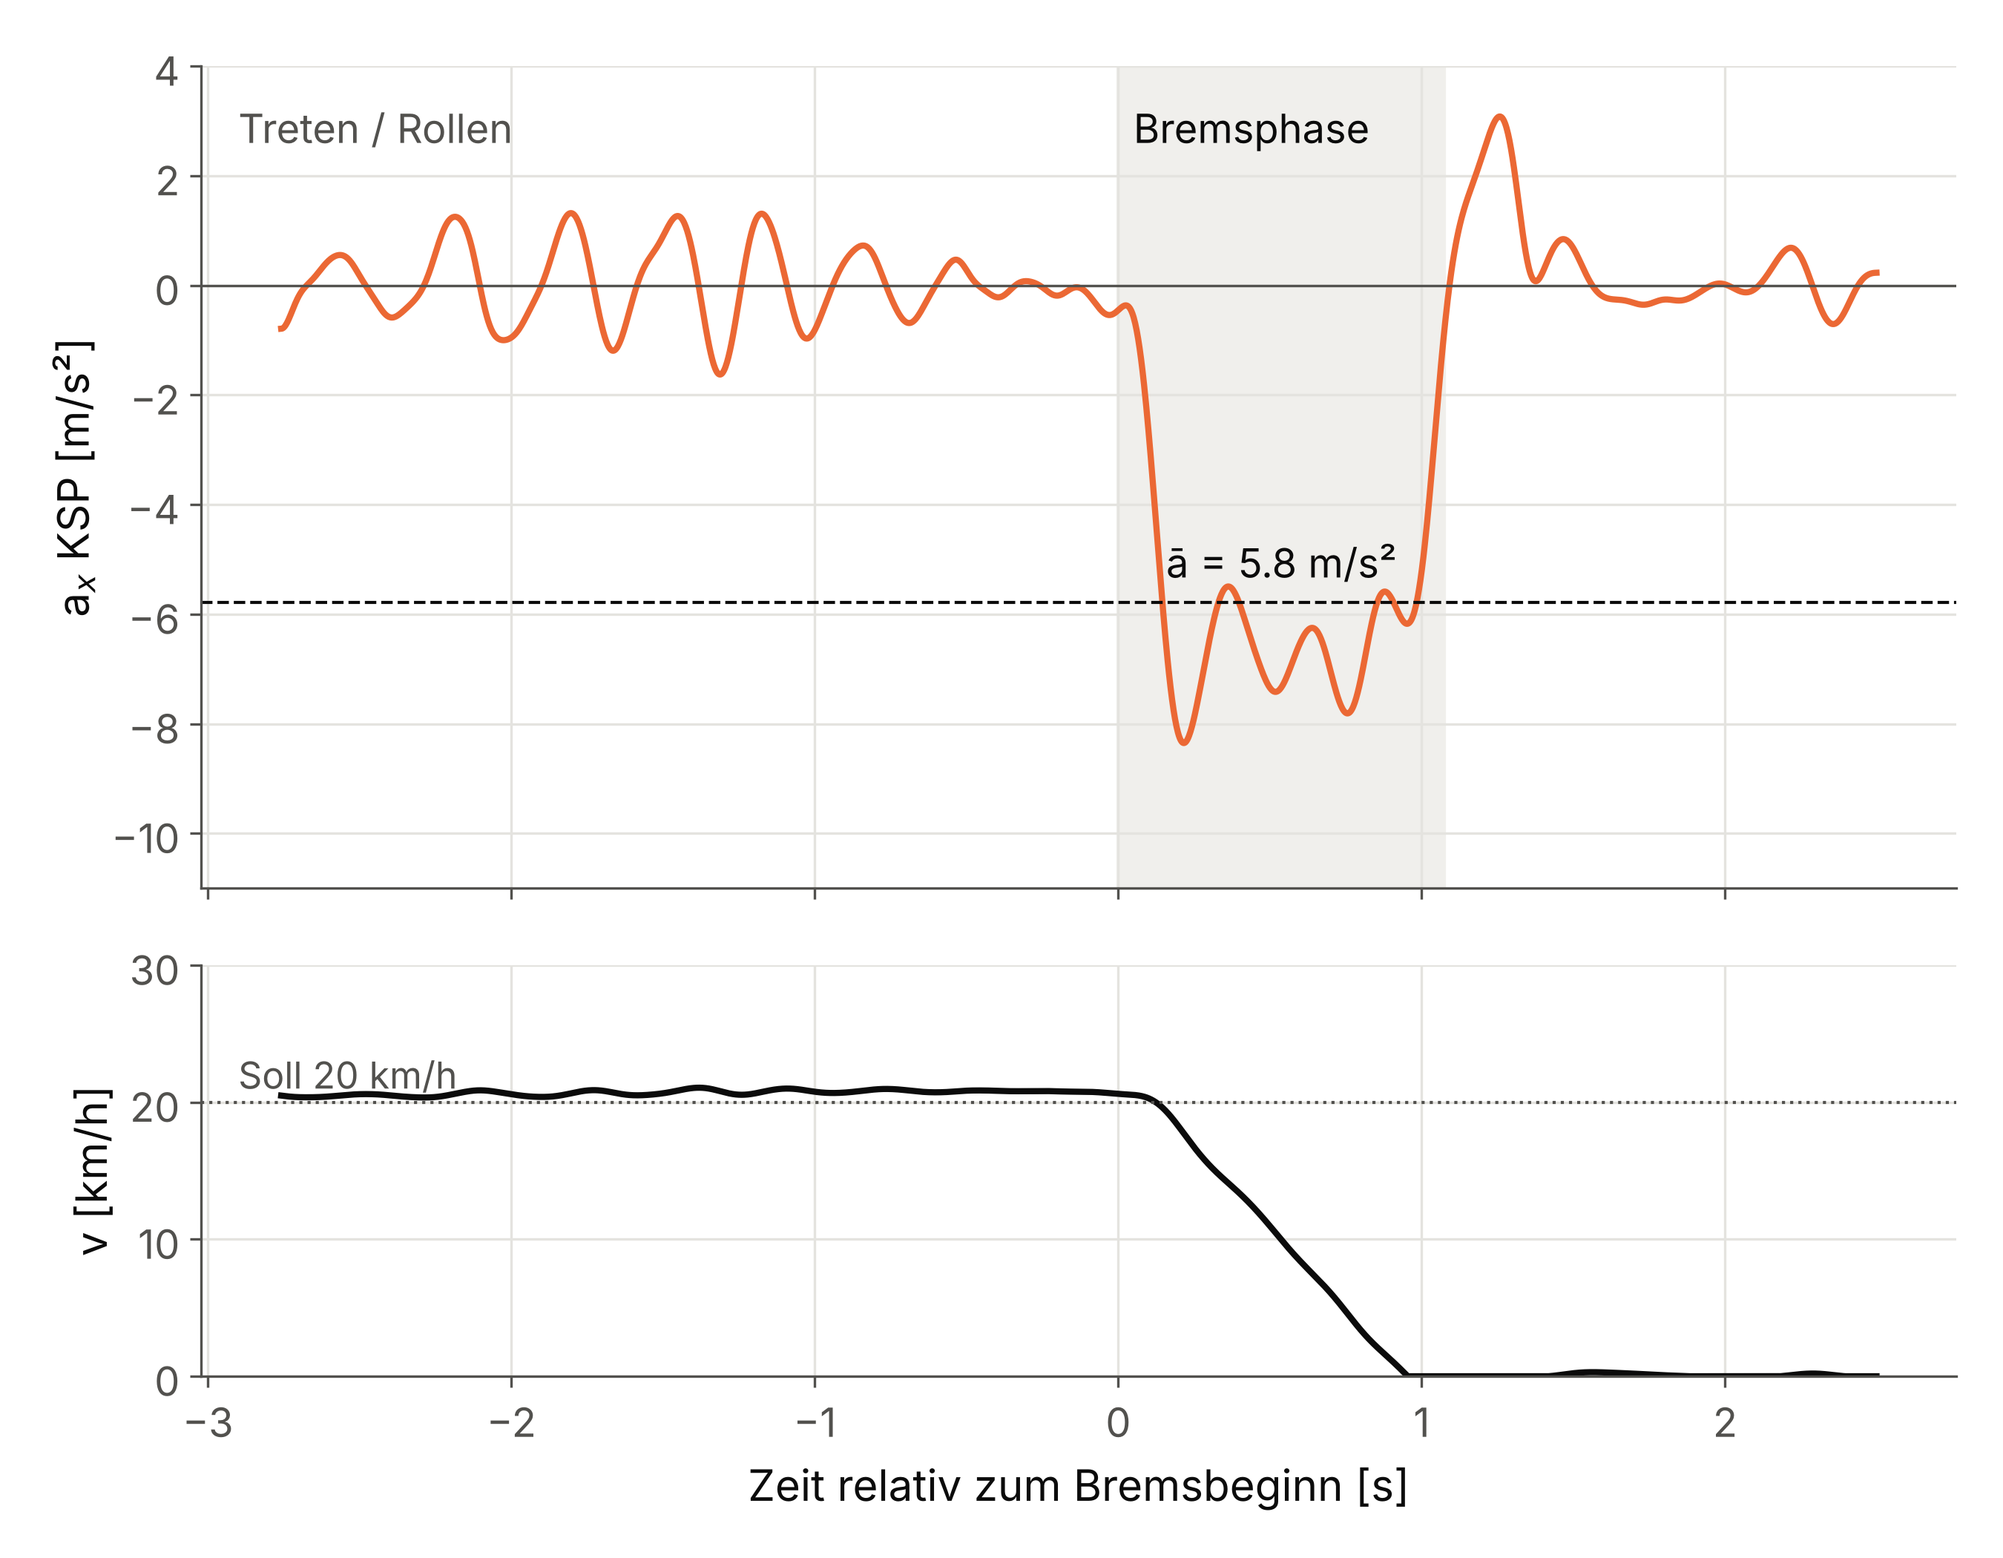
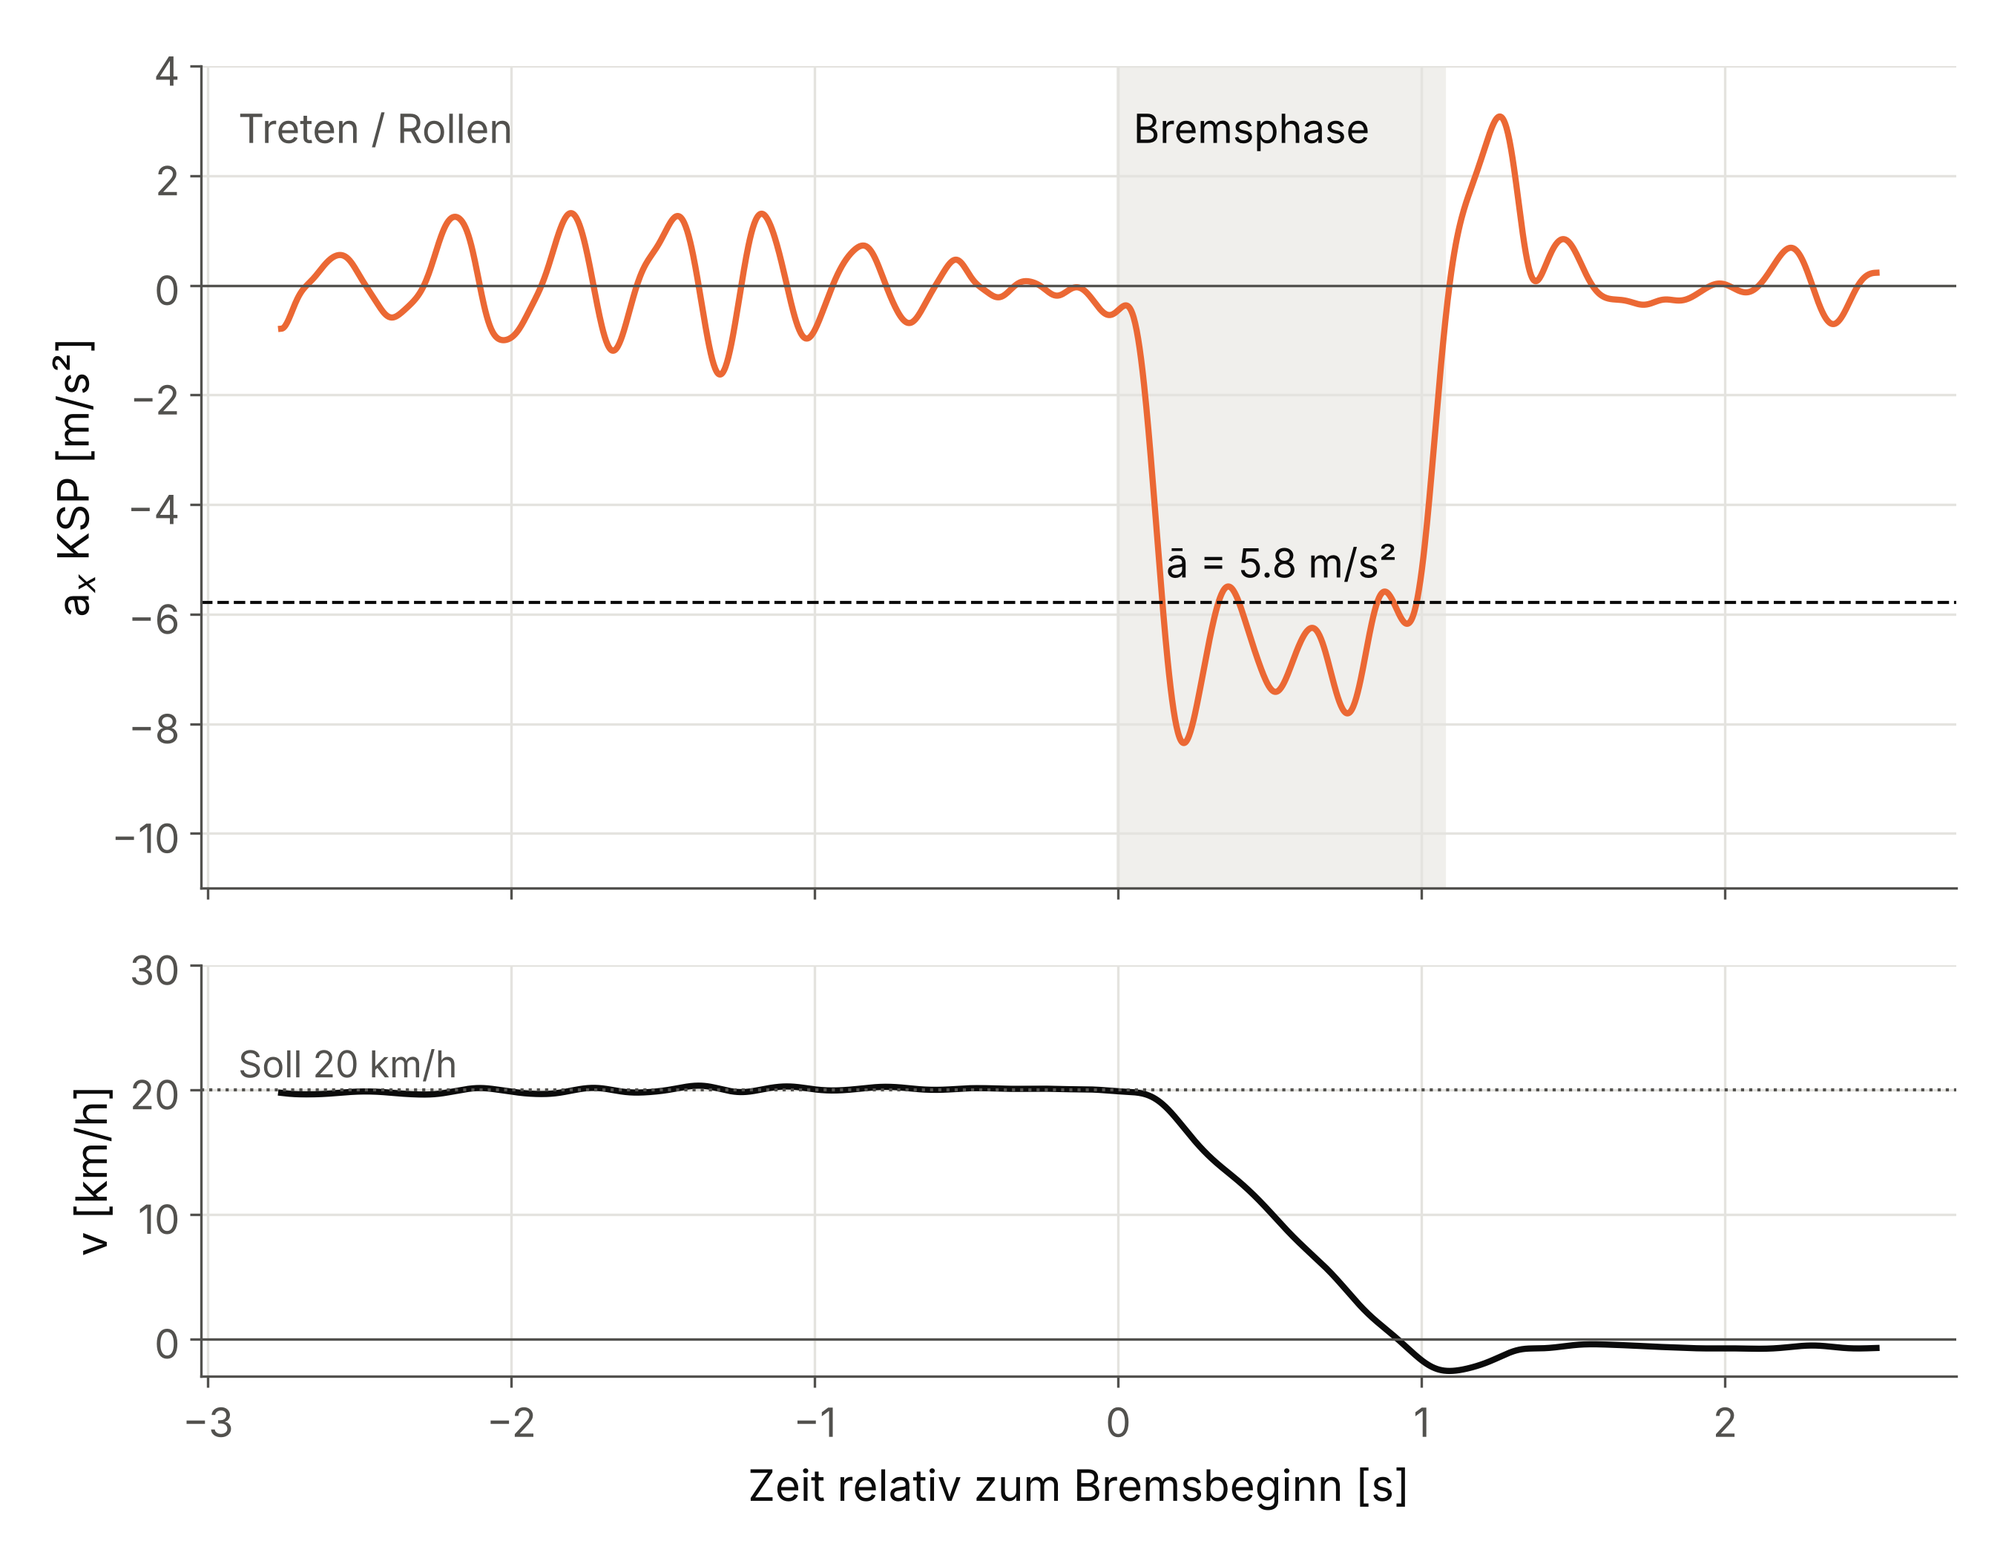
Realismus-Check: v0 bis Stillstand integriert, korrekter nichtparametrischer Post-hoc
- v0 und Bremsweg aus Geschwindigkeit rückwärts ab Stillstand (inkl. Rumpf-Rückschwung);
  Fenster-Integral überschätzte v0 um ~0,3 m/s, Fig. 2 und Tabelle waren inkonsistent
- Kruskal-Wallis: eta²_H statt ANOVA-eta², Post-hoc Mann-Whitney/Bonferroni statt Tukey
- Spitzenwert als Rumpf-Kennwert benannt (> mu*g, kein System-KSP)
- README: Realismus-Tabelle, Sensitivitätsanalyse, Blockreihenfolge als Störgröße

Claude-Session: https://claude.ai/code/session_01VrucjPWBajvsVALb3yb3mv

diff --git a/analysis/run_analysis.py b/analysis/run_analysis.py
@@ -30,11 +30,11 @@ INK, INK2, GRID = "#0b0b0b", "#52514e", "#e4e3df"
 
 METRICS = [
     ("mean", "Mittlere Verzögerung", "m/s²"),
-    ("peak", "Maximale Verzögerung", "m/s²"),
+    ("peak", "Spitzenverzögerung Rumpf", "m/s²"),
     ("dur", "Bremsdauer", "s"),
     ("t_to_peak", "Zeit bis Maximum", "s"),
-    ("v0", "Anfangsgeschw. (aus ∫a dt)", "m/s"),
-    ("dist", "Bremsweg (aus ∫∫a dt)", "m"),
+    ("v0", "Anfangsgeschw. (∫a dt bis Stillstand)", "m/s"),
+    ("dist", "Bremsweg (∫v dt)", "m"),
     ("pitch_max", "Rumpfneigung nach vorn (max.)", "°"),
 ]
 
@@ -96,7 +96,8 @@ def statistics(df):
             row["Test"] = f"ANOVA F(2,{len(allv) - 3})={F:.2f}, {fmt_p(p_anova)}, η²={eta2:.2f}"
             p_main = p_anova
         else:
-            row["Test"] = f"Kruskal-Wallis H={H:.2f}, {fmt_p(p_kw)}, η²={eta2:.2f}"
+            eta2_h = max(0.0, (H - 3 + 1) / (len(allv) - 3))
+            row["Test"] = f"Kruskal-Wallis H={H:.2f}, {fmt_p(p_kw)}, η²_H={eta2_h:.2f}"
             p_main = p_kw
         summ.append(row)
         lines.append(f"\n== {name} [{unit}] ==")
@@ -109,7 +110,12 @@ def statistics(df):
             tk = stats.tukey_hsd(*groups)
             for i in range(3):
                 for j in range(i + 1, 3):
-                    lines.append(f"    post-hoc {POS[i]}-{POS[j]}: Tukey p={tk.pvalue[i, j]:.4f}, "
+                    if normal:
+                        ph = f"Tukey p={tk.pvalue[i, j]:.4f}"
+                    else:   # nichtparametrisch: Mann-Whitney-U, Bonferroni (x3)
+                        pu = stats.mannwhitneyu(groups[i], groups[j]).pvalue
+                        ph = f"Mann-Whitney p_Bonf={min(1.0, 3 * pu):.4f}"
+                    lines.append(f"    post-hoc {POS[i]}-{POS[j]}: {ph}, "
                                  f"Cohen's d={cohen_d(groups[i], groups[j]):.2f}")
     return pd.DataFrame(summ), "\n".join(lines)
 
@@ -131,15 +137,13 @@ def fig_method(trials):
     ax[0].set_ylabel("a$_x$ KSP [m/s²]")
     ax[0].set_ylim(-11, 4)
     # Geschwindigkeit: rückwärts ab Stillstand integriert
-    a = r["a_x"][m]
-    v = np.cumsum(a[::-1])[::-1] / r["fs"] * -1
-    v = np.clip(v, 0, None)
-    ax[1].plot(t[m], v * 3.6, color=INK, lw=2)
+    ax[1].plot(t[m], r["v"][m] * 3.6, color=INK, lw=2)
     ax[1].axhline(V0 * 3.6, color=INK2, lw=1, ls=":")
     ax[1].text(-2.9, V0 * 3.6 + 1, "Soll 20 km/h", color=INK2, fontsize=12)
     ax[1].set_ylabel("v [km/h]")
     ax[1].set_xlabel("Zeit relativ zum Bremsbeginn [s]")
-    ax[1].set_ylim(0, 30)
+    ax[1].axhline(0, color=INK2, lw=0.8)
+    ax[1].set_ylim(-3, 30)
     fig.tight_layout()
     fig.savefig(os.path.join(OUT_FIG, "Fig2_Methode.png"))
     plt.close(fig)
@@ -175,7 +179,7 @@ def fig_curves(trials):
 
 def fig_compare(df):
     """Fig 4: Einzelwerte + MW ± SD je Position: Verzögerung (Ziel) und v0 (Störgröße)."""
-    keys = [("mean", "Mittlere Verzögerung [m/s²]"), ("peak", "Maximale Verzögerung [m/s²]"),
+    keys = [("mean", "Mittlere Verzögerung [m/s²]"), ("peak", "Spitzenverzögerung Rumpf [m/s²]"),
             ("v0", "Anfangsgeschwindigkeit [m/s]")]
     fig, axs = plt.subplots(1, 3, figsize=(14, 5.5))
     rng = np.random.default_rng(1)
@@ -211,7 +215,14 @@ def main():
     head = (f"Trials ausgewertet: {len(df)} / 30\n"
             f"Validierung: v0 aus ∫a dt = {df.v0.mean():.2f} ± {df.v0.std(ddof=1):.2f} m/s "
             f"({df.v0.mean() * 3.6:.1f} km/h, Soll {V0 * 3.6:.0f} km/h); "
-            f"{100 * dv_ok:.0f} % der Trials innerhalb ±20 %\n")
+            f"{100 * dv_ok:.0f} % der Trials innerhalb ±20 %\n"
+            f"Δv nur im Bremsfenster = {-df.delta_v.mean():.2f} m/s (ohne Rückschwung des Rumpfs)\n"
+            f"Korrelation mit v0: r(ā)={df.v0.corr(df['mean']):.2f}, r(Dauer)={df.v0.corr(df.dur):.2f}, "
+            f"r(Bremsweg)={df.v0.corr(df.dist):.2f}\n"
+            f"Plausibilität: physikalisch v0²/(2ā) = {(df.v0 ** 2 / (2 * df['mean'])).mean():.2f} m "
+            f"vs. Bremsweg {df.dist.mean():.2f} m\n"
+            f"Hinweis: Positionen geblockt aufgenommen (Vorne 14:51-15:05, Neutral 15:06-15:21, "
+            f"Hinten 15:23-15:33) -> Reihenfolge-/Übungseffekt nicht trennbar\n")
     with open(os.path.join(OUT_RES, "stats.txt"), "w", encoding="utf-8") as f:
         f.write(head + txt + "\n")
     print(head + txt)

diff --git a/analysis/brake_pipeline.py b/analysis/brake_pipeline.py
@@ -2,14 +2,15 @@
 
 Methode
 1. Acc und Gyro auf gemeinsames Raster, Butterworth-Tiefpass (zero-lag).
-2. Stillstand nach der Bremsung finden (|a|≈g, Gyro klein) -> Gravitationsvektor g_end
-   und Gyro-Offset (Bias) im Sensorsystem.
+2. Stillstand nach der Bremsung finden (ruhigstes 0,4-s-Fenster) -> Gravitationsvektor
+   g_end im Sensorsystem (kein Gyro-Bias-Abzug, siehe to_stop_frame).
 3. Orientierung per Gyro-Integration rückwärts ab Stillstand -> jede Probe ins
    'Stillstands-Weltsystem' drehen; dort ist die Vertikale bekannt.
 4. Lineare Beschleunigung = a_welt - g; horizontale Hauptrichtung (PCA) in den
    Sekunden vor dem Stillstand = Fahrtrichtung; Vorzeichen: Bremsen < 0.
-5. Bremsfenster: Beginn = letzter Nulldurchgang von a_x vor dem Verzögerungsplateau,
-   Ende = Stillstand. Validierung: Delta-v = Integral a_x dt ~ -5,56 m/s (20 km/h).
+5. Bremsfenster: a_x (2 Hz) < -1 m/s² um das stärkste 0,5-s-Plateau; Baseline aus der
+   Rollphase abgezogen. ā = Mittel im Fenster, Peak = Minimum im Fenster.
+   v0 = Integral a_x dt von Bremsbeginn bis Stillstand. Validierung: v0 ~ 5,56 m/s (20 km/h).
 """
 import glob
 import os
@@ -148,8 +149,13 @@ def analyze_at(folder, t, a_f, w_f, fs, ic):
     a_c = a_x - base
     win = slice(st, en + 1)
     ip = st + np.argmin(a_c[win])
-    dv = np.trapezoid(a_c[win], tt[win])
-    v = -dv + np.concatenate([[0], np.cumsum((a_c[st + 1:en + 1] + a_c[st:en]) / 2 / fs)])
+    dv = np.trapezoid(a_c[win], tt[win])   # Δv nur im Fenster (Konsistenz: ā·t_B)
+    # Geschwindigkeit rückwärts vom Stillstand integriert (v = 0 im Ruhefenster):
+    # schließt den Rückschwung des Rumpfs nach dem Fenster ein -> unverzerrtes v0
+    seg = (a_c[1:] + a_c[:-1]) / 2 / fs
+    v = np.concatenate([-np.cumsum(seg[::-1])[::-1], [0.0]])
+    after = np.flatnonzero(v[st:] <= 0)
+    ks = st + (after[0] if after.size else len(v) - 1 - st)   # erster Nulldurchgang
     # Rumpf-Nickwinkel: Drehung um die Querachse (ey = ez x ex), + = nach vorn
     ey = np.cross(ez, ex)
     pitch = np.degrees(np.cumsum(w_w @ ey) / fs)
@@ -159,7 +165,8 @@ def analyze_at(folder, t, a_f, w_f, fs, ic):
         fs=fs, t=tt, a_x=a_c, a_v=a_v, t_rel=tt - tt[st],
         t_start=tt[st], t_end=tt[en], t_peak=tt[ip], t_quiet=tt[-1],
         peak=-a_c[ip], mean=-a_c[win].mean(), dur=tt[en] - tt[st],
-        dv=dv, v0=-dv, dist=np.trapezoid(np.clip(v, 0, None), tt[win]),
+        dv=dv, v=v, v0=v[st], t_stop=tt[ks] - tt[st],
+        dist=np.trapezoid(v[st:ks + 1], tt[st:ks + 1]),
         t_to_peak=tt[ip] - tt[st], pitch=pitch, pitch_max=pitch[win].max(),
         pitch_min=pitch[win].min(), baseline=base,
     )

diff --git a/README.md b/README.md
@@ -25,37 +25,57 @@ Diagnoseplot mit allen 30 Trials und Bremsfenster:
 5. **Bremsfenster:** Die Phase, in der a_x (2-Hz-Signal) unter −1 m/s² liegt, rund um das stärkste 0,5-s-Verzögerungsplateau. Davon wird eine Baseline aus der Rollphase abgezogen.
 6. **Kennwerte:**
    - mittlere und maximale Verzögerung, Bremsdauer
-   - v₀ = −∫a dt
-   - Bremsweg = ∫v dt
+   - v₀ = −∫a dt vom Bremsbeginn bis zum Stillstand (inkl. Rückschwung)
+   - Bremsweg = ∫v dt bis v = 0
    - Rumpf-Nickwinkel über das Gyro um die Querachse
 7. **Statistik:**
    - MW ± SD (n = 10), Shapiro-Wilk und Levene
    - ANOVA bzw. Kruskal-Wallis, je nach Normalverteilung
-   - Tukey-HSD als Post-hoc, Effektstärken η² und Cohen's d
+   - Post-hoc: Tukey-HSD nach ANOVA, Mann-Whitney mit Bonferroni nach Kruskal-Wallis
+   - Effektstärken η² bzw. η²_H und Cohen's d
 
 Alle **30/30 Trials** wurden automatisch erkannt. Die Bremsfenster wurden zusätzlich visuell geprüft.
 
 ## Ergebnisse (MW ± SD, n = 10 je Position)
 | Kennwert | Vorne | Neutral | Hinten | Test |
 |---|---|---|---|---|
-| **Mittlere Verzögerung [m/s²]** | 5,01 ± 0,41 | **5,44 ± 0,37** | 5,10 ± 0,34 | Kruskal-Wallis p = 0,034, η² = 0,22; Vorne–Neutral p = 0,037 (d = 1,1) |
-| Maximale Verzögerung [m/s²] | 8,86 ± 0,82 | 9,55 ± 0,72 | 9,84 ± 1,33 | ANOVA p = 0,094 (n.s.) |
+| **Mittlere Verzögerung ā [m/s²]** | 5,01 ± 0,41 | **5,44 ± 0,37** | 5,10 ± 0,34 | Kruskal-Wallis H = 6,77, p = 0,034, η²_H = 0,18 (ANOVA p = 0,035) |
+| Spitzenverzögerung Rumpf [m/s²] | 8,86 ± 0,82 | 9,55 ± 0,72 | 9,84 ± 1,33 | ANOVA p = 0,094 (n.s.) |
 | Bremsdauer [s] | 1,40 ± 0,20 | 1,21 ± 0,10 | 1,12 ± 0,06 | ANOVA p < 0,001 ⚠ v₀-abhängig |
-| Bremsweg [m] | 4,99 ± 0,90 | 4,01 ± 0,40 | 3,60 ± 0,50 | ANOVA p < 0,001 ⚠ v₀-abhängig |
-| Anfangsgeschw. v₀ [km/h] | 25,0 ± 1,7 | 23,7 ± 1,1 | 20,6 ± 1,6 | ANOVA p < 0,001 |
+| Bremsweg [m] | 4,48 ± 0,90 | 3,46 ± 0,48 | 3,65 ± 0,53 | ANOVA p = 0,004 ⚠ v₀-abhängig |
+| Anfangsgeschw. v₀ [km/h] | 23,5 ± 2,0 | 21,9 ± 1,5 | 20,4 ± 1,4 | ANOVA p = 0,001 |
 | Rumpfneigung nach vorn (max.) [°] | 15 ± 9 | 15 ± 6 | 42 ± 6 | ANOVA p < 0,001 |
 
+Post-hoc ā (Hinten nicht normalverteilt, Shapiro p = 0,010):
+- Vorne–Neutral: Mann-Whitney mit Bonferroni p = 0,063, Tukey p = 0,037, d = 1,1
+- die übrigen Paare n.s.
+
+Sensitivitätsanalyse: Mit ā' = v₀ / Zeit bis Stillstand bleibt die Reihenfolge gleich (Neutral 5,80 ± 0,44 > Vorne 5,15 ± 0,47 > Hinten 4,78 ± 0,86 m/s²; ANOVA p = 0,004).
+
+### Realismus-Check
+| Größe | gemessen | physikalisch erwartbar | Bewertung |
+|---|---|---|---|
+| ā (≈ 0,51–0,55 g) | 5,0–5,4 m/s² | Überschlaggrenze sitzend ≈ g·b/h ≈ 0,55–0,65 g (b ≈ 0,7 m KSP–Vorderradaufstand, h ≈ 1,1–1,2 m); Fahrrad-Vollbremsung typ. ≈ 0,5–0,6 g | ✅ realistisch, knapp unter der Überschlaggrenze |
+| Spitzenwert (0,8–1,2 g) | 7,8–12 m/s² | Das System Rad + Fahrer kann nicht stärker verzögern als μ·g (≈ 0,7–0,8 g) und die Überschlaggrenze erlauben | ⚠ **kein KSP-Wert**: Rumpfsegment, das von den Armen abgefangen wird und schwingt (≈ 3–4 Hz). Nur als Rumpfbelastung interpretieren. |
+| v₀ | 21,9 ± 2,1 km/h | Soll 20 km/h, E-MTB-Unterstützung bis 25 km/h | ✅ 83 % innerhalb ±20 % (Kriterium ≥ 80 % erfüllt) |
+| Konsistenz | ā·t_B = Δv im Fenster; v₀²/(2ā) = 3,65 m vs. Bremsweg 3,86 m | – | ✅ in sich stimmig (Rest: Anfangs- und Endrampe) |
+| Rollphase | v vor der Bremsung konstant (Schwankung ≈ ±0,3 m/s, Fig. 2) | konstant, leicht abnehmend | ✅ Schwerkraftkompensation funktioniert |
+| Rückschwung | v kurz ≈ −0,7 m/s nach dem Stopp (Fig. 2) | Rumpf schwingt nach dem Stopp zurück | ✅ plausibel; deshalb wird v₀ bis zum Stillstand integriert, nicht nur im Fenster (sonst +0,3 m/s) |
+| Rumpfneigung Hinten | 42 ± 6° | aus der Rücklage über die Senkrechte nach vorn | ⚠ plausibel, aber das Handy am Bauch kann zusätzlich mit dem Weichteilgewebe kippen |
+
 ### Interpretation / Diskussionspunkte
-- **Hauptbefund:** Die mittlere KSP-Verzögerung ist in der **neutralen** Position am größten, rund 8 % mehr als in der vorgebeugten Position. Die Unterschiede sind insgesamt klein (≈ 0,4 m/s²), aber signifikant, mit großem Effekt zwischen Vorne und Neutral.
-- **Vorne:** Die Verzögerung baut sich am langsamsten auf (Fig. 3). Ein plausibler Grund ist, dass der KSP weit vorne liegt. Dann wird das Hinterrad früher entlastet, und der Fahrer dosiert die Vorderradbremse vorsichtiger (Überschlaggrenze, vgl. Wilson & Schmidt).
-- **Hinten:** Der Rumpf kippt beim Bremsen stark nach vorn (≈ 42°). Die aufgebaute Körperenergie geht also in eine Rumpfrotation statt in einen stabilen Abstützimpuls. Die Bremskurve zeigt einen Einbruch bei ≈ 0,3 s (Fig. 3).
-- **Störgröße Anfangsgeschwindigkeit:** Statt der geplanten 20 km/h wurden real ≈ 21–25 km/h gefahren, und zwar systematisch je Position verschieden (die Vorne-Trials kamen zuerst). Bremsdauer und Bremsweg korrelieren stark mit v₀ (r = 0,78 bzw. 0,89). Sie sind deshalb **nicht** als Positionseffekt interpretierbar. Die mittlere Verzögerung korreliert dagegen nicht mit v₀ (r = 0,03) und ist der geeignete Hauptkennwert.
-- **Plausibilität:** v₀ aus der Integration (23,1 km/h im Mittel) passt zur Abregelgrenze des E-MTB (25 km/h). Außerdem stimmt ā mit v₀/t_B überein. Der Peak (~1 g) ist durch Körperoszillationen überhöht und weniger robust als ā.
+- **Hauptbefund:** In der **neutralen** Position ist die mittlere Verzögerung am größten (≈ +8 % gegenüber Vorne). Der Gesamttest ist signifikant (p = 0,034), der Paarvergleich Vorne–Neutral nur grenzwertig (p = 0,037–0,063, je nach Verfahren). Formulierung fürs Poster: „Tendenz, großer Effekt (d = 1,1)“, nicht „eindeutig“.
+- **Hypothese H1 nicht bestätigt:** Die Hinten-Position erreicht keine höhere ā. Nach hinten verlagert, steigt zwar die theoretische Überschlaggrenze. Da ā aber in allen Positionen bei ≈ 0,5 g und damit unter dieser Grenze liegt, begrenzt eher die Bremsdosierung des Fahrers als die Physik.
+- **Vorne:** Die Verzögerung baut sich am langsamsten auf (Fig. 3). Plausibel ist eine vorsichtigere Dosierung der Vorderradbremse, weil der KSP nahe an der Überschlaggrenze liegt (vgl. Wilson & Schmidt).
+- **Hinten:** Der Rumpf kippt beim Bremsen um ≈ 42° nach vorn. Bei ≈ 0,3 s bewegt er sich relativ zum Rad nach vorn, deshalb sinkt die gemessene Verzögerung kurz ab (Einbruch in Fig. 3). Danach fangen die Arme den Rumpf ab, und es folgt ein Spitzenwert. Über den gesamten Stopp gleicht sich das aus (gleicher Impuls).
+- **Störgrößen:**
+  - (1) v₀ war nicht konstant (20–24 km/h). Bremsdauer und Bremsweg hängen stark davon ab (r = 0,76 bzw. 0,89) und sind deshalb **nicht** als Positionseffekt interpretierbar. ā korreliert kaum mit v₀ (r = −0,18).
+  - (2) Die Positionen wurden **geblockt** aufgenommen (Vorne 14:51–15:05 → Neutral → Hinten 15:23–15:33). Übungs- und Ermüdungseffekte lassen sich daher nicht von der Position trennen. Das Vorne-v₀ ist am höchsten, weil diese Trials zuerst gefahren wurden.
 - **Limitationen:**
   - n = 1 Proband; die Trials sind Wiederholungen, keine unabhängige Stichprobe.
-  - Das Handy am Bauch misst den Rumpf/Becken-Bereich als KSP-Näherung.
-  - Die Fahrgeschwindigkeit wurde nicht kontrolliert.
-  - Die Gyro-Integration ist nur über kurze Zeit driftarm.
+  - Das Handy am Bauch misst den Rumpf und ist damit nur eine Näherung des KSP.
+  - Die Geschwindigkeit wurde nicht kontrolliert, die Reihenfolge nicht randomisiert.
+  - Die Gyro-Integration ist nur über wenige Sekunden driftarm.
 
 ## Struktur
 - `analysis/io_phyphox.py`: robustes CSV-Einlesen (Komma/Tab, Dezimalpunkt/-komma)
